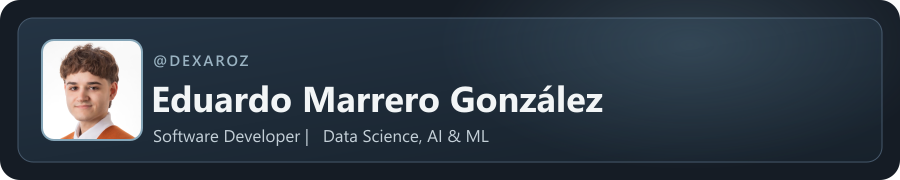
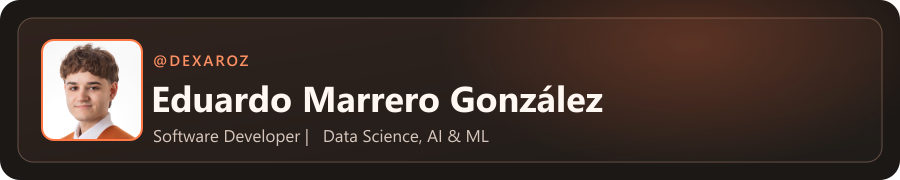
Use warm orange profile palette

diff --git a/scripts/update_projects.py b/scripts/update_projects.py
@@ -53,14 +53,14 @@ def project_card(repo, x, y):
     return f"""
     <g>
       <rect x="{x}" y="{y}" width="422" height="174" rx="13" class="card"/>
-      <circle cx="{x + 16}" cy="{y + 17}" r="3" fill="#89a99a"/>
+      <circle cx="{x + 16}" cy="{y + 17}" r="3" fill="#ff7846"/>
       <text x="{x + 29}" y="{y + 21}" class="meta">{owner}</text>
-      <line x1="{x}" y1="{y + 33}" x2="{x + 422}" y2="{y + 33}" stroke="#3d5261"/>
+      <line x1="{x}" y1="{y + 33}" x2="{x + 422}" y2="{y + 33}" stroke="#674d3f"/>
       <text x="{x + 16}" y="{y + 61}" class="name">{name}</text>
       {description_svg}
-      <rect x="{x + 16}" y="{y + 120}" width="{max(58, len(tags) * 7.2 + 20):.0f}" height="22" rx="11" fill="#263a49"/>
-      <text x="{x + 27}" y="{y + 135}" class="meta">{safe(tags)}</text>
-      <text x="{x + 16}" y="{y + 160}" class="meta">★ {stars}   ·   pushed {safe(pushed)}</text>
+      <rect x="{x + 16}" y="{y + 120}" width="{max(58, len(tags) * 7.2 + 20):.0f}" height="22" rx="11" fill="#4a3025"/>
+      <text x="{x + 27}" y="{y + 135}" class="accent">{safe(tags)}</text>
+      <text x="{x + 16}" y="{y + 160}" class="accent">★ {stars}   ·   pushed {safe(pushed)}</text>
     </g>"""
 
 
@@ -75,17 +75,18 @@ def render(repos):
   <title id="title">Dexaroz pinned projects</title>
   <desc id="description">Public repositories pinned on Dexaroz's GitHub profile, updated by GitHub Actions.</desc>
   <style>
-    .card {{ fill: #1a2630; stroke: #4a6070; }}
-    .meta {{ fill: #a9c4d2; font: 12px Consolas, monospace; }}
-    .name {{ fill: #f2f5f6; font: bold 18px Consolas, monospace; }}
-    .body {{ fill: #c4d0d8; font: 13px Consolas, monospace; }}
+    .card {{ fill: #29221e; stroke: #715545; }}
+    .meta {{ fill: #d4b5a1; font: 12px Consolas, monospace; }}
+    .accent {{ fill: #ff9b6f; font: 12px Consolas, monospace; }}
+    .name {{ fill: #fff8f2; font: bold 18px Consolas, monospace; }}
+    .body {{ fill: #e0cfc2; font: 13px Consolas, monospace; }}
   </style>
-  <rect width="900" height="{height}" rx="18" fill="#141b23"/>
-  <rect x=".5" y=".5" width="899" height="{height - 1}" rx="18" fill="none" stroke="#586b79"/>
-  <text x="20" y="31" class="meta">PROJECTS.LIST</text>
+  <rect width="900" height="{height}" rx="18" fill="#1b1816"/>
+  <rect x=".5" y=".5" width="899" height="{height - 1}" rx="18" fill="none" stroke="#715545"/>
+  <text x="20" y="31" class="accent">PROJECTS.LIST</text>
   <text x="165" y="31" class="meta">~/projects.sh --pinned</text>
   <text x="878" y="31" text-anchor="end" class="meta">{len(repos)} pinned · checked {checked}</text>
-  <line x1="18" y1="46" x2="882" y2="46" stroke="#4a6070"/>
+  <line x1="18" y1="46" x2="882" y2="46" stroke="#715545"/>
 {cards}
 </svg>
 """
